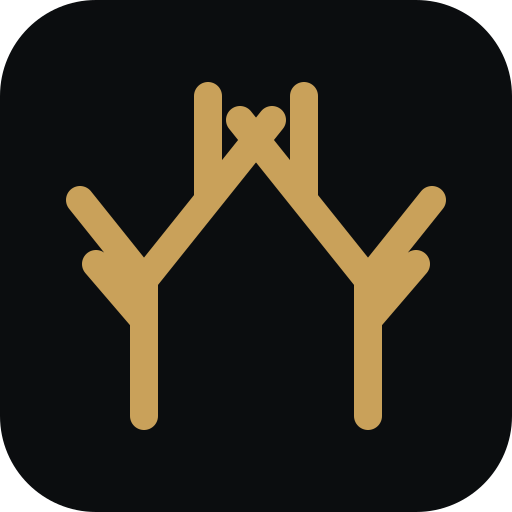
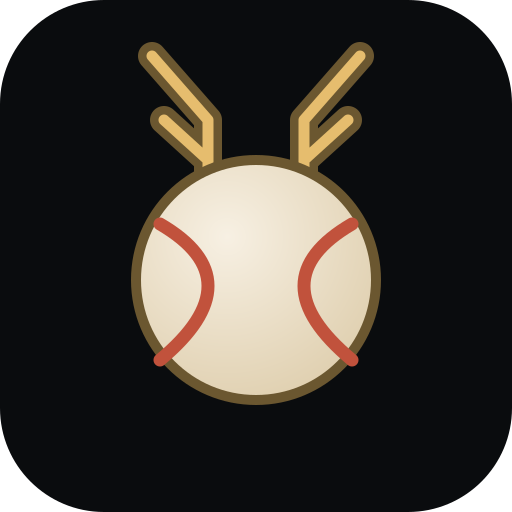
Redesign the Antlerboard mark and brand the home button
New identity concept: a baseball crowned by two antlers, read together as
a compact crest (and, in silhouette, a nod to the letter A) - "baseball
clubhouse x backyard league x modern analytics" rather than a generic
SaaS mark. Depth is restrained and shape-based (a soft radial gradient on
the ball, a duotone stroke on each antler - a dim base pass under a slim
bright highlight), so it survives being rasterized to a flat favicon/app
icon without needing gradients, chrome, or drop shadows baked in.

- src/components/brand/AntlerboardMark.tsx: the crest, one geometry used
  everywhere (nav, favicon, app icon, login) - always rendered in its own
  brand colors, never currentColor, since the app is dark-theme-only.
  `detailed` adds baseball stitch ticks, used only at the login screen's
  larger size.
- src/components/brand/AntlerboardLogotype.tsx: the full lockup (mark +
  "Antlerboard" + a visually subordinate "Claw & Antler League") for the
  login screen - the one place a first impression matters. Nav stays with
  the plain mark + wordmark it already had, just reskinned, since a denser
  UI has no room for a second, more ceremonial lockup.
- src/components/nav/HomeBadge.tsx: the mobile bottom-nav's Home control,
  rebuilt around the crest sitting in a small raised badge chip (soft
  shadow at rest, ring + brighter fill when on the Board tab, a quick
  scale+inset on tap) instead of a generic Home icon - replaces
  src/components/nav/AntlerMark.tsx, now deleted.
[…]

diff --git a/src/components/brand/AntlerboardMark.tsx b/src/components/brand/AntlerboardMark.tsx
@@ -1,0 +1,69 @@
+/**
+ * The Antlerboard crest: a baseball crowned by a pair of antlers, read
+ * together as a compact badge (and, in silhouette, a nod to the letter A).
+ * One geometry serves every context - nav, favicon, app icon, login screen
+ * - so the mark stays consistent; only `detailed` (stitch ticks on the
+ * seams) is optional, since that texture disappears at small sizes anyway
+ * and isn't worth the visual noise below ~40px.
+ *
+ * This is the app's only mark - it always renders in its own brand colors
+ * (never currentColor). Antlerboard is dark-theme-only, and the cream
+ * ball/gold antlers read clearly against every surface tone in the
+ * palette, so there's no separate "mono" variant to keep in sync.
+ *
+ * The depth here is deliberately restrained and shape-based (a soft radial
+ * gradient on the ball, a duotone stroke on each antler - a dim base pass
+ * under a slim bright highlight pass) rather than filter/shadow-based, so
+ * it survives being rasterized to a static PNG/ICO for the favicon and app
+ * icon without losing anything.
+ */
+export function AntlerboardMark({
+  className,
+  detailed = false,
+}: {
+  className?: string;
+  detailed?: boolean;
+}) {
+  return (
+    <svg viewBox="0 0 128 128" className={className} xmlns="http://www.w3.org/2000/svg" aria-hidden="true">
+      <defs>
+        <radialGradient id="ab-ball" cx="38%" cy="32%" r="80%">
+          <stop offset="0%" stopColor="#f7f0e3" />
+          <stop offset="100%" stopColor="#ddccaa" />
+        </radialGradient>
+      </defs>
+
+      {/* Antlers - dim base stroke first, slim bright highlight on top */}
+      <g fill="none" strokeLinecap="round" strokeLinejoin="round">
+        <path d="M52 50V30L38 14M52 40L41 30" stroke="#6b5730" strokeWidth="7" />
+        <path d="M76 50V30L90 14M76 40L87 30" stroke="#6b5730" strokeWidth="7" />
+        <path d="M52 50V30L38 14M52 40L41 30" stroke="#e6bd6e" strokeWidth="2.75" />
+        <path d="M76 50V30L90 14M76 40L87 30" stroke="#e6bd6e" strokeWidth="2.75" />
+      </g>
+
+      {/* The ball */}
+      <circle cx="64" cy="70" r="30" fill="url(#ab-ball)" stroke="#6b5730" strokeWidth="2.5" />
+
+      {/* Seams */}
+      <g fill="none" stroke="#c1523c" strokeWidth="3.25" strokeLinecap="round">
+        <path d="M40 56Q64 70 40 90" />
+        <path d="M88 56Q64 70 88 90" />
+      </g>
+
+      {detailed && (
+        <g stroke="#c1523c" strokeWidth="2" strokeLinecap="round">
+          <path d="M45 59.5 47 61.5" />
+          <path d="M50 65.5 52.5 67" />
+          <path d="M52.5 70 55 70" />
+          <path d="M50 74.5 52.5 73" />
+          <path d="M45 80.5 47 78.5" />
+          <path d="M83 59.5 81 61.5" />
+          <path d="M78 65.5 75.5 67" />
+          <path d="M75.5 70 73 70" />
+          <path d="M78 74.5 75.5 73" />
+          <path d="M83 80.5 81 78.5" />
+        </g>
+      )}
+    </svg>
+  );
+}

diff --git a/src/components/nav/TopNav.tsx b/src/components/nav/TopNav.tsx
@@ -4,7 +4,7 @@ import Link from "next/link";
 import { usePathname } from "next/navigation";
 import { NAV_ITEMS, visibleNavItems } from "./nav-items";
 import clsx from "clsx";
-import { AntlerMark } from "./AntlerMark";
+import { AntlerboardMark } from "@/components/brand/AntlerboardMark";
 import { SearchBox } from "../search/SearchBox";
 import type { CurrentManagerSummary } from "@/lib/auth/types";
 
@@ -13,11 +13,11 @@ export function TopNav({ currentManager }: { currentManager: CurrentManagerSumma
   const items = visibleNavItems(NAV_ITEMS, currentManager.role);
 
   return (
-    <header className="hidden lg:block sticky top-0 z-40 border-b border-border bg-surface/95 backdrop-blur">
+    <header className="hidden lg:block sticky top-0 z-40 border-b border-border bg-surface/95 backdrop-blur shadow-[0_2px_8px_rgba(0,0,0,0.25)]">
       <div className="mx-auto max-w-7xl px-6 py-3 flex items-center gap-3 xl:gap-6">
         <Link href="/" className="flex items-center gap-2 shrink-0">
-          <AntlerMark className="h-7 w-7 text-antler" />
-          <span className="font-display text-lg tracking-tight text-foreground">
+          <AntlerboardMark className="h-8 w-8" />
+          <span className="font-display text-lg font-semibold tracking-tight text-foreground">
             Antlerboard
           </span>
         </Link>
@@ -33,7 +33,7 @@ export function TopNav({ currentManager }: { currentManager: CurrentManagerSumma
                     className={clsx(
                       "block px-2.5 py-2 rounded-md text-sm font-medium transition-colors whitespace-nowrap",
                       active
-                        ? "bg-surface-raised text-antler-strong"
+                        ? "bg-surface-raised text-antler-strong shadow-[inset_0_1px_0_rgba(255,255,255,0.05),0_0_8px_-2px_rgba(230,189,110,0.35)]"
                         : "text-muted hover:text-foreground"
                     )}
                   >

diff --git a/src/components/nav/HomeBadge.tsx b/src/components/nav/HomeBadge.tsx
@@ -1,0 +1,34 @@
+"use client";
+
+import Link from "next/link";
+import clsx from "clsx";
+import { AntlerboardMark } from "@/components/brand/AntlerboardMark";
+
+/**
+ * The mobile bottom-nav's Home control, reskinned around the Antlerboard
+ * crest instead of a generic icon - see the redesign brief's "the home
+ * button should feel like a piece of Antlerboard's identity." The chip
+ * behind the mark reads as a small physical badge (soft raised shadow at
+ * rest, a quick inset/scale-down on tap) rather than a flat icon button.
+ */
+export function HomeBadge({ active }: { active: boolean }) {
+  return (
+    <Link
+      href="/"
+      className="relative flex flex-col items-center justify-center gap-1 py-2 text-[10px] font-medium tracking-tight"
+    >
+      {active && <span className="absolute top-0 h-0.5 w-6 rounded-full bg-antler-strong" />}
+      <span
+        className={clsx(
+          "flex h-9 w-9 items-center justify-center rounded-xl transition-transform duration-100 active:scale-90",
+          active
+            ? "bg-surface-raised ring-1 ring-antler-dim shadow-[inset_0_1px_0_rgba(255,255,255,0.06),0_1px_2px_rgba(0,0,0,0.45)] active:shadow-[inset_0_2px_4px_rgba(0,0,0,0.55)]"
+            : "bg-surface shadow-[0_1px_2px_rgba(0,0,0,0.45),inset_0_1px_0_rgba(255,255,255,0.05)] active:shadow-[inset_0_2px_4px_rgba(0,0,0,0.55)]"
+        )}
+      >
+        <AntlerboardMark className="h-6 w-6" />
+      </span>
+      <span className={active ? "text-antler-strong" : "text-muted"}>Board</span>
+    </Link>
+  );
+}

diff --git a/src/components/nav/AppShell.tsx b/src/components/nav/AppShell.tsx
@@ -2,7 +2,7 @@ import Link from "next/link";
 import { Search } from "lucide-react";
 import { TopNav } from "./TopNav";
 import { BottomNav } from "./BottomNav";
-import { AntlerMark } from "./AntlerMark";
+import { AntlerboardMark } from "@/components/brand/AntlerboardMark";
 import { NotificationBell } from "../notifications/NotificationBell";
 import { AuthStatus } from "../auth/AuthStatus";
 import type { CurrentManagerSummary } from "@/lib/auth/types";
@@ -18,13 +18,13 @@ export function AppShell({
     <div className="min-h-dvh flex flex-col">
       <TopNav currentManager={currentManager} />
       <header
-        className="lg:hidden sticky top-0 z-40 border-b border-border bg-surface/95 backdrop-blur"
+        className="lg:hidden sticky top-0 z-40 border-b border-border bg-surface/95 backdrop-blur shadow-[0_2px_8px_rgba(0,0,0,0.25)]"
         style={{ paddingTop: "env(safe-area-inset-top)" }}
       >
         <div className="flex items-center gap-2 px-4 h-14">
           <Link href="/" className="flex items-center gap-2">
-            <AntlerMark className="h-6 w-6 text-antler" />
-            <span className="font-display text-base tracking-tight">Antlerboard</span>
+            <AntlerboardMark className="h-7 w-7" />
+            <span className="font-display text-base font-semibold tracking-tight">Antlerboard</span>
           </Link>
           <div className="ml-auto flex items-center gap-4">
             <Link href="/search" className="text-muted hover:text-foreground" aria-label="Search">

diff --git a/src/components/brand/AntlerboardLogotype.tsx b/src/components/brand/AntlerboardLogotype.tsx
@@ -1,0 +1,30 @@
+import { AntlerboardMark } from "./AntlerboardMark";
+
+/**
+ * The full brand lockup: mark + wordmark + league subtitle. Reserved for
+ * the one place a first impression actually matters - the login screen.
+ * Everywhere else in the app (nav, tabs) is dense, functional UI where a
+ * compact mark plus a plain-weight "Antlerboard" wordmark already does the
+ * job without competing for space - this bigger, more ceremonial lockup
+ * would be too heavy repeated on every page.
+ *
+ * "Claw & Antler League" stays visually subordinate (smaller, lighter,
+ * letter-spaced, muted) - it's the league's name, not the product's.
+ */
+export function AntlerboardLogotype({ className }: { className?: string }) {
+  return (
+    <div className={className}>
+      <div className="flex items-center gap-4">
+        <AntlerboardMark detailed className="h-16 w-16 shrink-0 drop-shadow-[0_2px_4px_rgba(0,0,0,0.35)]" />
+        <div className="flex flex-col">
+          <span className="font-display text-3xl font-bold tracking-tight text-foreground leading-none">
+            Antlerboard
+          </span>
+          <span className="mt-1.5 text-[11px] font-medium uppercase tracking-[0.2em] text-antler">
+            Claw &amp; Antler League
+          </span>
+        </div>
+      </div>
+    </div>
+  );
+}

diff --git a/src/components/nav/BottomNav.tsx b/src/components/nav/BottomNav.tsx
@@ -5,6 +5,7 @@ import Link from "next/link";
 import { usePathname } from "next/navigation";
 import { Menu } from "lucide-react";
 import { PRIMARY_NAV_ITEMS, MORE_NAV_ITEMS, visibleNavItems } from "./nav-items";
+import { HomeBadge } from "./HomeBadge";
 import clsx from "clsx";
 import type { CurrentManagerSummary } from "@/lib/auth/types";
 
@@ -47,12 +48,19 @@ export function BottomNav({ currentManager }: { currentManager: CurrentManagerSu
         </div>
       )}
       <nav
-        className="fixed bottom-0 inset-x-0 z-40 border-t border-border bg-surface/95 backdrop-blur supports-[backdrop-filter]:bg-surface/80 lg:hidden"
+        className="fixed bottom-0 inset-x-0 z-40 border-t border-border bg-surface/95 backdrop-blur supports-[backdrop-filter]:bg-surface/80 shadow-[0_-2px_10px_rgba(0,0,0,0.25)] lg:hidden"
         style={{ paddingBottom: "env(safe-area-inset-bottom)" }}
       >
         <ul className="grid grid-cols-5">
           {PRIMARY_NAV_ITEMS.map((item) => {
             const active = isActive(item.href);
+            if (item.href === "/") {
+              return (
+                <li key={item.href}>
+                  <HomeBadge active={active} />
+                </li>
+              );
+            }
             return (
               <li key={item.href}>
                 <Link

diff --git a/src/app/login/page.tsx b/src/app/login/page.tsx
@@ -1,5 +1,5 @@
 import { Suspense } from "react";
-import { AntlerMark } from "@/components/nav/AntlerMark";
+import { AntlerboardLogotype } from "@/components/brand/AntlerboardLogotype";
 import { PinLoginForm } from "@/components/auth/PinLoginForm";
 
 export const dynamic = "force-dynamic";
@@ -7,11 +7,10 @@ export const dynamic = "force-dynamic";
 export default function LoginPage() {
   return (
     <div className="min-h-dvh flex flex-col items-center justify-center gap-8 px-6 bg-background text-foreground">
-      <div className="flex flex-col items-center gap-3">
-        <AntlerMark className="h-12 w-12 text-antler" />
-        <h1 className="font-display text-2xl tracking-tight">Antlerboard</h1>
+      <div className="flex flex-col items-center gap-4">
+        <AntlerboardLogotype />
         <p className="text-sm text-muted text-center max-w-xs">
-          Enter your 4-digit PIN to access the Claw &amp; Antler League front office.
+          Enter your 4-digit PIN to access the front office.
         </p>
       </div>
       <Suspense fallback={null}>

diff --git a/src/app/globals.css b/src/app/globals.css
@@ -18,6 +18,11 @@
   --antler: #c9a15a;
   --antler-strong: #e6bd6e;
   --antler-dim: #6b5730;
+  /* Warm cream - the Antlerboard mark's baseball, and anywhere else a
+     baseball-heritage "hide" tone reads better than pure white. Not a
+     general-purpose light color - this is a dark-theme-only app. */
+  --cream: #f2e9d8;
+  --cream-dim: #ddccaa;
   --red: #d9634b;
   --orange: #e0925a;
   --yellow: #d9bc55;
@@ -38,6 +43,8 @@
   --color-antler: var(--antler);
   --color-antler-strong: var(--antler-strong);
   --color-antler-dim: var(--antler-dim);
+  --color-cream: var(--cream);
+  --color-cream-dim: var(--cream-dim);
   --color-red: var(--red);
   --color-orange: var(--orange);
   --color-yellow: var(--yellow);

diff --git a/src/components/ui/Card.tsx b/src/components/ui/Card.tsx
@@ -9,7 +9,12 @@ export function Card({
   className?: string;
 }) {
   return (
-    <div className={clsx("rounded-xl border border-border bg-surface p-4", className)}>
+    <div
+      className={clsx(
+        "rounded-xl border border-border bg-surface p-4 shadow-[0_1px_3px_rgba(0,0,0,0.3),inset_0_1px_0_rgba(255,255,255,0.03)]",
+        className
+      )}
+    >
       {children}
     </div>
   );
